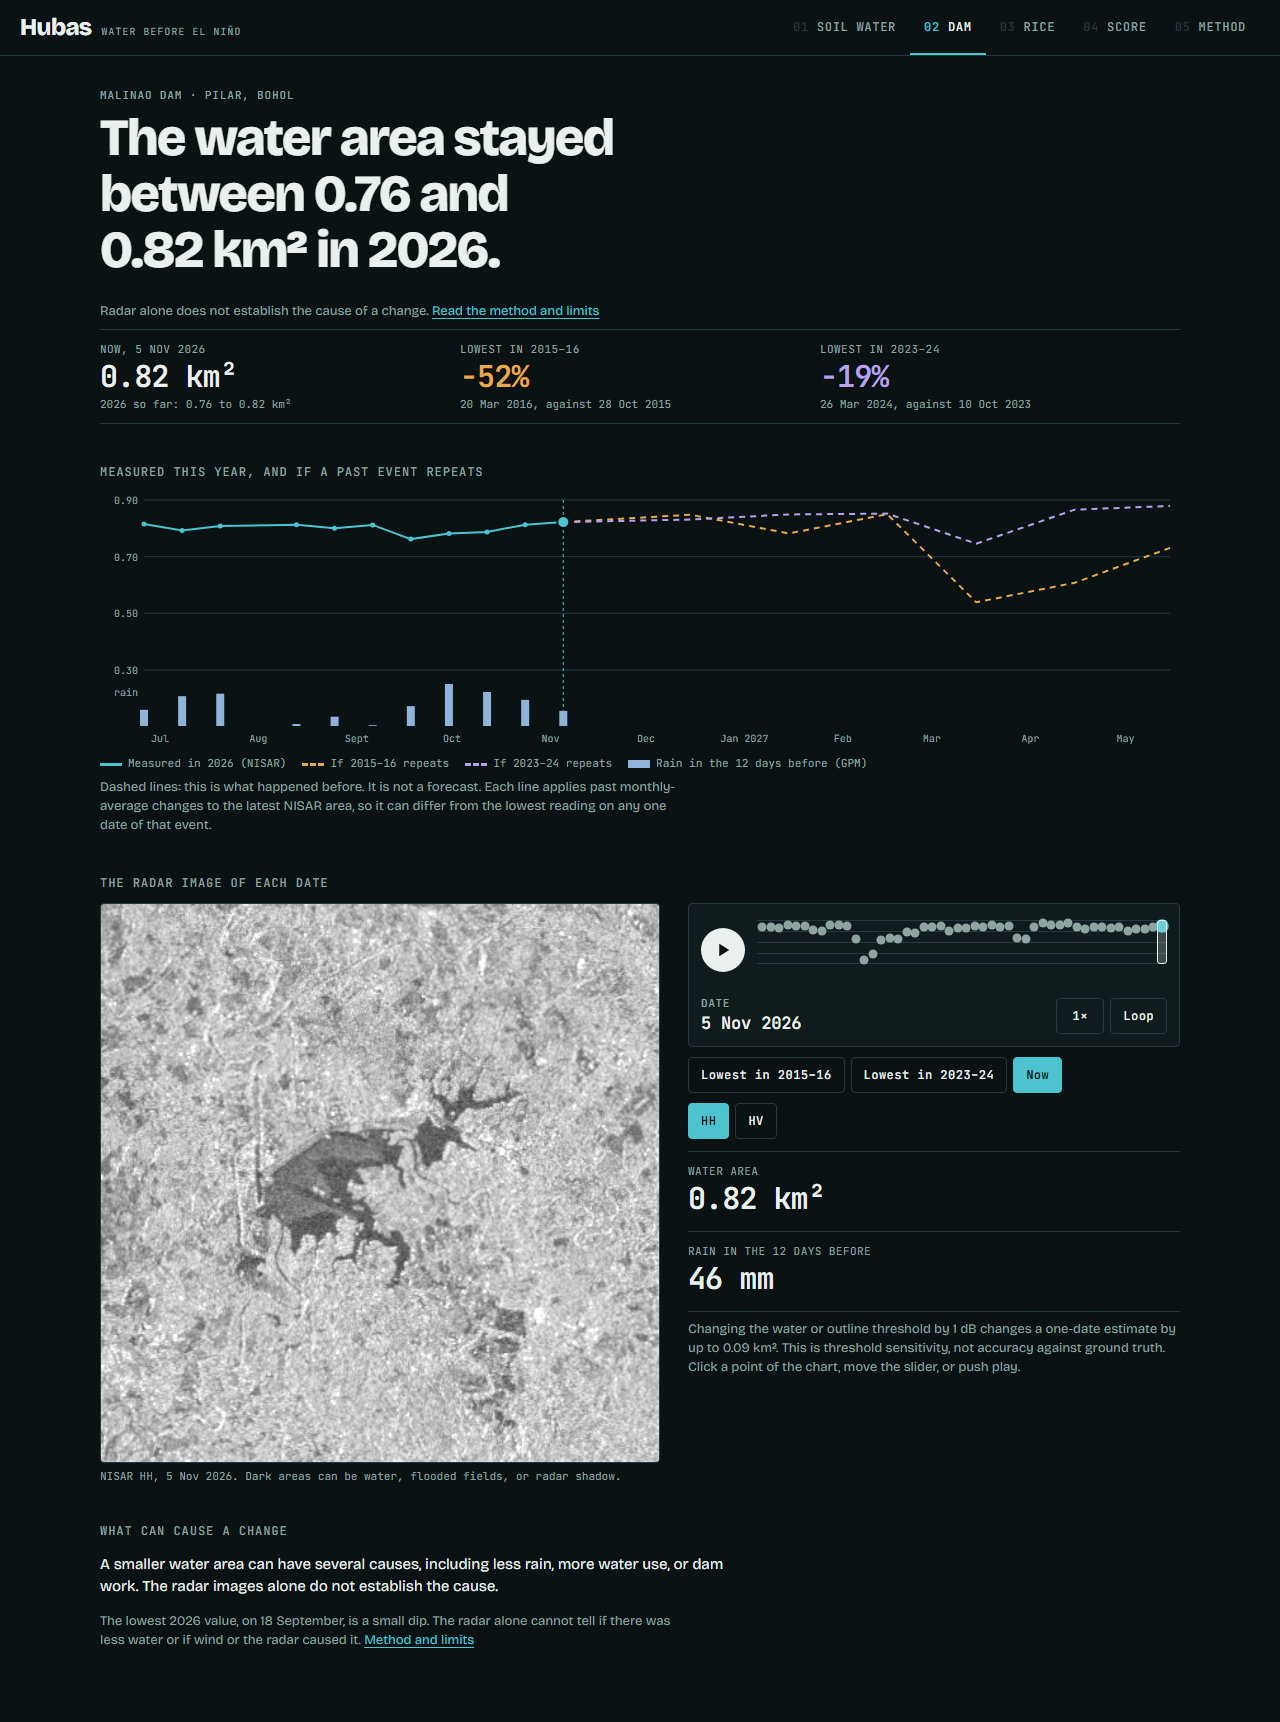
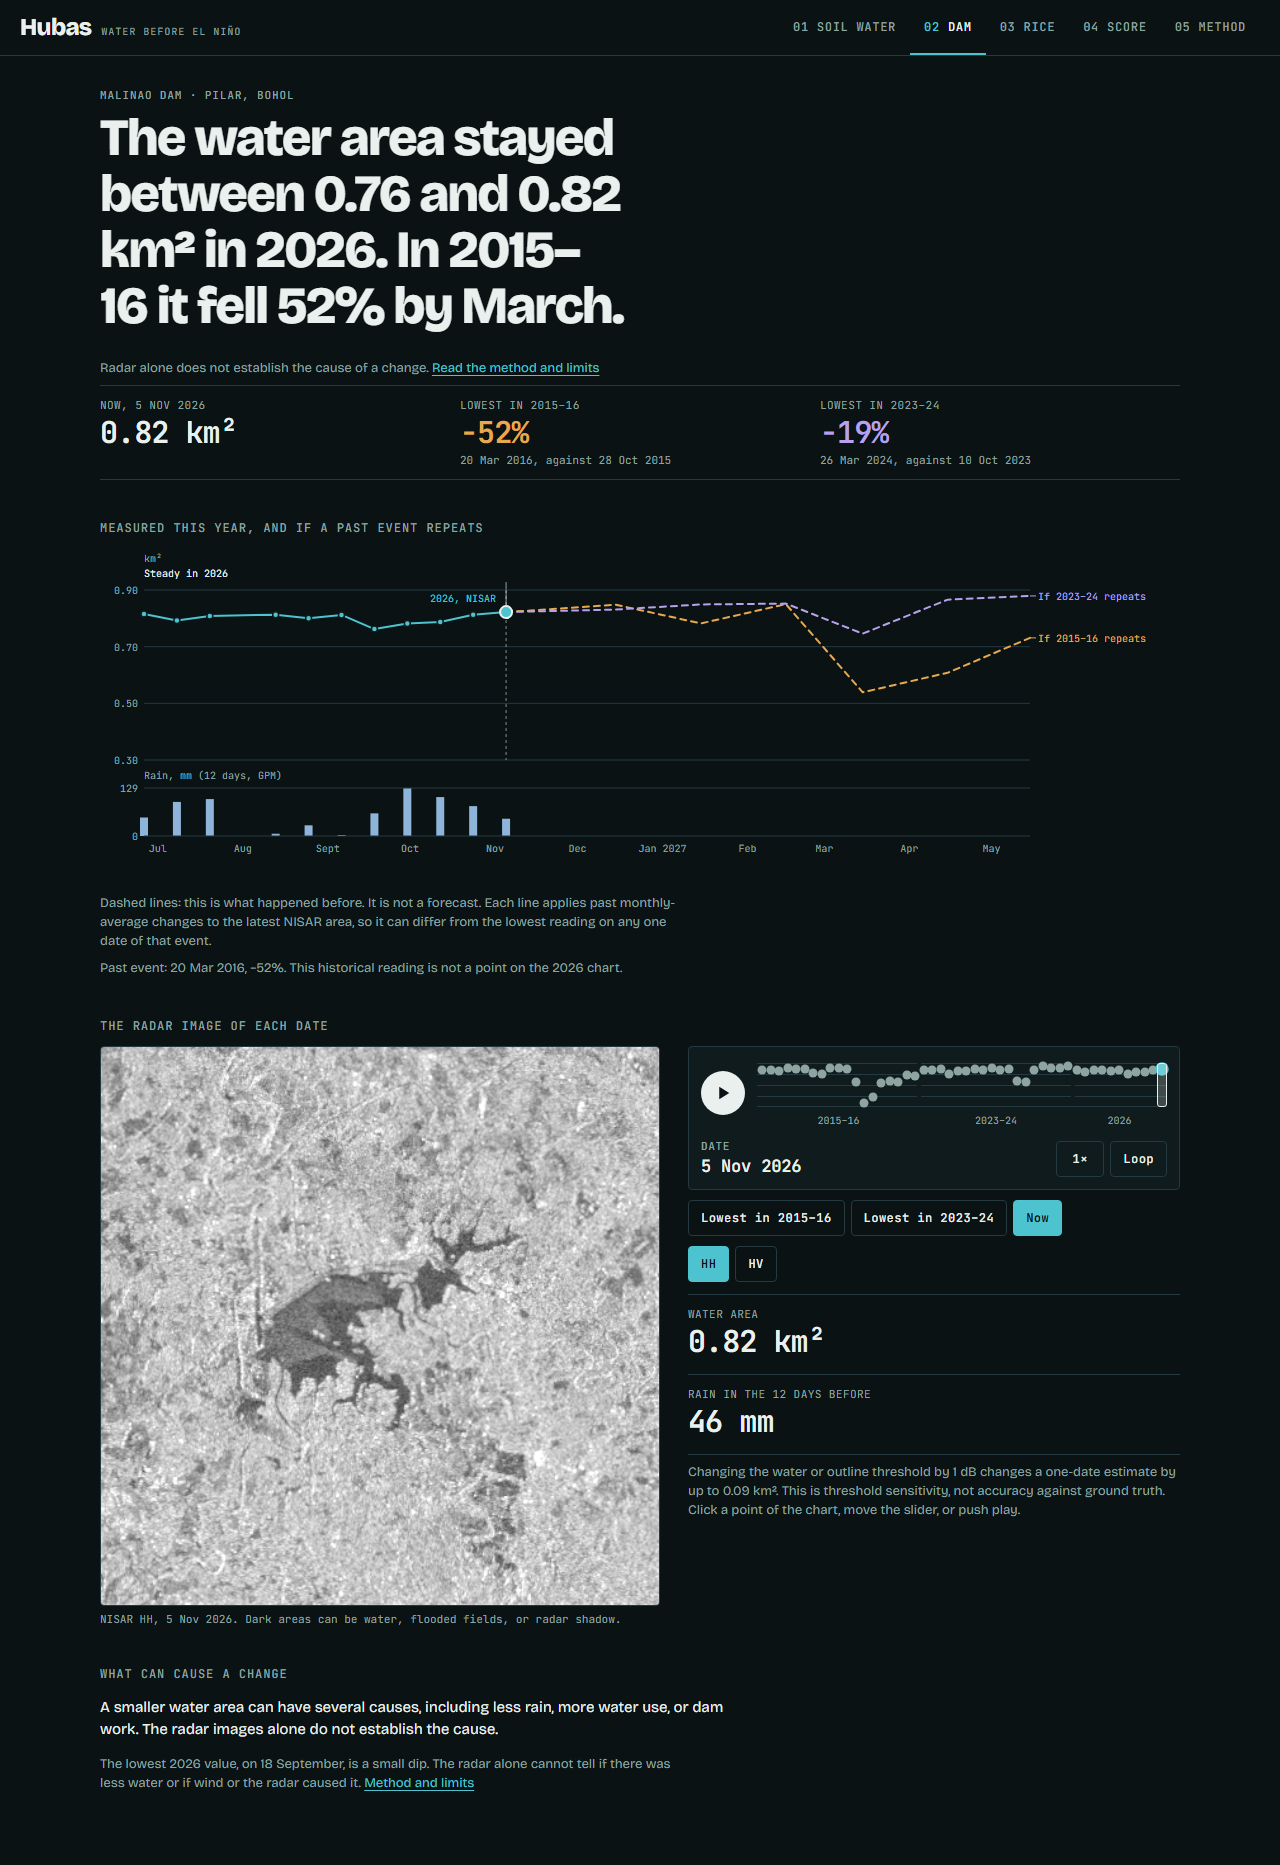
fix: keep the phone map clear and check the fixed findings [sc-553]
The longer map tag covered most of the phone map. The soil finding and the
Method counts were typed in with no check against the data.

diff --git a/app/src/app/dam/DamView.tsx b/app/src/app/dam/DamView.tsx
@@ -6,6 +6,7 @@ import MapLink from "../MapLink";
 import { type Band, Chart, DRY, fmt, type Line, NOW, note, Picker, Radar, useHydrated, VIOLET } from "../TargetParts";
 
 const EVENT_COLOR: Record<string, string> = { "2015–16": DRY, "2023–24": VIOLET };
+const month = (date: string) => new Date(date).toLocaleDateString("en-GB", { month: "long", timeZone: "UTC" });
 const pct = (value: number, base: number) => (value / base - 1) * 100;
 const signed = (value: number) => {
   const rounded = Math.round(value);
@@ -82,13 +83,12 @@ export default function DamView({ dam }: { dam: Target }) {
   return (
     <main className="dam-page" data-ready={ready}>
       <p className="eyebrow">Malinao Dam · Pilar, Bohol</p>
-      <h1 data-testid="view-finding">The water area stayed between {Math.min(...areas).toFixed(2)} and {Math.max(...areas).toFixed(2)} km² in 2026.</h1>
+      <h1 data-testid="view-finding">The water area stayed between {Math.min(...areas).toFixed(2)} and {Math.max(...areas).toFixed(2)} km² in 2026.{events[0] && events[0].fall < 0 && ` In ${events[0].event} it fell ${Math.abs(Math.round(events[0].fall))}% by ${month(events[0].lowDate)}.`}</h1>
       <p className="dam-note">Radar alone does not establish the cause of a change. <MapLink href="/method">Read the method and limits</MapLink></p>
       <dl className="dam-stats">
         <div>
           <dt>Now, {fmt(dates[last])}</dt>
           <dd data-testid="dam-now">{areas[last].toFixed(2)} km²</dd>
-          <small>2026 so far: {Math.min(...areas).toFixed(2)} to {Math.max(...areas).toFixed(2)} km²</small>
         </div>
         {events.map((event) => (
           <div key={event.event} data-testid="dam-event">

diff --git a/app/e2e/screen-copy.spec.ts b/app/e2e/screen-copy.spec.ts
@@ -1,4 +1,6 @@
 import { expect, test } from "@playwright/test";
+import type { Lgu, Manifest } from "../lib/data";
+import { soilMeans } from "../src/app/soil-mean";
 import { useOfflineBasemap } from "./offline-basemap";
 import { saveProof } from "./proof";
 
@@ -15,4 +17,15 @@ test("each view leads with a numbered finding and readable dates", async ({ page
       await expect(page).toHaveURL(/\/method$/);
     }
   }
+});
+
+// The map's soil finding is a fixed sentence, so this fails when new data stops supporting it.
+test("the data still supports the soil finding", async ({ request }) => {
+  const manifest: Manifest = await (await request.get("/data/manifest.json")).json();
+  const lgus: Lgu[] = await (await request.get("/data/lgus.json")).json();
+  const means = soilMeans(manifest.windows.length, lgus).map((m) => m.mean!);
+  const fall = manifest.windows.findIndex((w) => w.start === "2026-07-27");
+  expect(Math.max(...means.slice(0, fall)), "about 0.35 before the fall").toBeCloseTo(0.35, 1);
+  expect(means[fall], "about 0.25 at the end of July").toBeCloseTo(0.25, 1);
+  expect(means[fall + 1], "still low in the next full window").toBeCloseTo(0.25, 1);
 });

diff --git a/app/src/app/method/page.tsx b/app/src/app/method/page.tsx
@@ -1,6 +1,7 @@
 import type { Metadata } from "next";
 import MapLink from "../MapLink";
 import lgus from "../../../public/data/lgus.json";
+import manifest from "../../../public/data/manifest.json";
 import outlooks from "../../../public/data/outlook.json";
 import { dateLabel } from "../date-label";
 
@@ -13,7 +14,7 @@ export default function MethodPage() {
     <main className="method-page">
       <p className="eyebrow">Cebu + Bohol · Data and limits</p>
       <h1>Measured, not forecast</h1>
-      <p data-testid="view-finding">Hubas shows 11 windows of satellite soil water measurements for 101 towns and cities.
+      <p data-testid="view-finding">Hubas shows {manifest.windows.length} windows of satellite soil water measurements for {lgus.length} towns and cities.
         The app makes no forecast of its own. An official PAGASA outlook is separate from the measurements.</p>
       <p className="notice">The NISAR soil water data is provisional. The rank is a preview,
         not a drought risk score. {hasSoilWater

diff --git a/app/src/app/globals.css b/app/src/app/globals.css
@@ -335,6 +335,9 @@ input[type="range"]::-moz-range-thumb {
   .map { grid-row: 1; height: 56dvh; min-height: 360px; }
   .hud { top: 12px; left: 12px; width: min(264px, calc(100% - 24px)); gap: 8px; }
   .tag strong { font-size: 16px; }
+  .tag p { margin: 4px 0 0; font-size: 12px; }
+  /* The top bar links Method, and the map needs the room. */
+  .tag span, .tag a { display: none; }
   .panel { position: static; grid-row: 2; width: auto; max-height: none; overflow: visible; margin: 12px 12px 0; }
   .explorer > .timeline { grid-row: 3; grid-template-columns: auto minmax(0, 1fr); gap: 12px; margin: 12px; padding: 12px; border: 1px solid var(--line); border-radius: 4px; }
   .explorer > .timeline .readout { grid-column: 1 / -1; grid-template-columns: 1fr auto; justify-items: start; align-items: end; }

diff --git a/app/src/app/score/ScoreView.tsx b/app/src/app/score/ScoreView.tsx
@@ -88,7 +88,7 @@ export default function ScoreView({ parts, rain, steps, start, end }: {
   return (
     <main className="dam-page score-page" data-ready={ready}>
       <p className="eyebrow">The score · 2026 wet season, Cebu and Bohol</p>
-      <h1 data-testid="view-finding">3 parts of the season: the soil, the dam and the rice, played together</h1>
+      <h1 data-testid="view-finding">Soil water fell in late July, the dam held, and the rice signal fell on 5 Nov 2026</h1>
       <p className="dam-note">Each note sits on its real NISAR date. The soil has 12-day windows. The dam and the rice have 11 radar passes.
         So the lines do not meet on the same days.</p>
 

diff --git a/.agents/skills/verify-hubas/features/README.md b/.agents/skills/verify-hubas/features/README.md
@@ -39,6 +39,7 @@ Each feature file starts with an H1 title and one paragraph on the user-visible 
 - [Rice parcels](./rice.md): the `/rice` page, the HV lines of the Ubay and Pilar parcels, and the radar image of each date.
 - [The score](./score.md): the `/score` page, the soil, dam and rice staffs and the rain on one date axis, one playhead, and a sound voice for each staff.
 - [Hear the season](./sound.md): opt-in soil-water tones synchronized with slider playback.
+- Screen copy: `e2e/screen-copy.spec.ts` checks a numbered finding on every view, the data behind the fixed soil finding, and readable PAGASA dates. Canonical terms are in `docs/screen-terms.md`.
 
 ## Not built yet
 
@@ -53,4 +54,3 @@ From the plan (https://claude.ai/artifact/RnQvBADeQY7pRJLrBH8YR8). Add a feature
 These were in the plan and were removed on purpose. Do not report them as missing.
 
 - Rank map colors and the `Rank` button (sc-126). Removed in sc-450: the rank is in the town panel only. See [Rank preview](./rank-preview.md).
-Screen copy: screen-copy.spec.ts checks a numbered finding on every view and human-readable PAGASA issue dates. Canonical terms are in docs/screen-terms.md.

diff --git a/.claude/skills/verify-hubas/features/README.md b/.claude/skills/verify-hubas/features/README.md
@@ -39,6 +39,7 @@ Each feature file starts with an H1 title and one paragraph on the user-visible 
 - [Rice parcels](./rice.md): the `/rice` page, the HV lines of the Ubay and Pilar parcels, and the radar image of each date.
 - [The score](./score.md): the `/score` page, the soil, dam and rice staffs and the rain on one date axis, one playhead, and a sound voice for each staff.
 - [Hear the season](./sound.md): opt-in soil-water tones synchronized with slider playback.
+- Screen copy: `e2e/screen-copy.spec.ts` checks a numbered finding on every view, the data behind the fixed soil finding, and readable PAGASA dates. Canonical terms are in `docs/screen-terms.md`.
 
 ## Not built yet
 
@@ -53,4 +54,3 @@ From the plan (https://claude.ai/artifact/RnQvBADeQY7pRJLrBH8YR8). Add a feature
 These were in the plan and were removed on purpose. Do not report them as missing.
 
 - Rank map colors and the `Rank` button (sc-126). Removed in sc-450: the rank is in the town panel only. See [Rank preview](./rank-preview.md).
-Screen copy: screen-copy.spec.ts checks a numbered finding on every view and human-readable PAGASA issue dates. Canonical terms are in docs/screen-terms.md.
